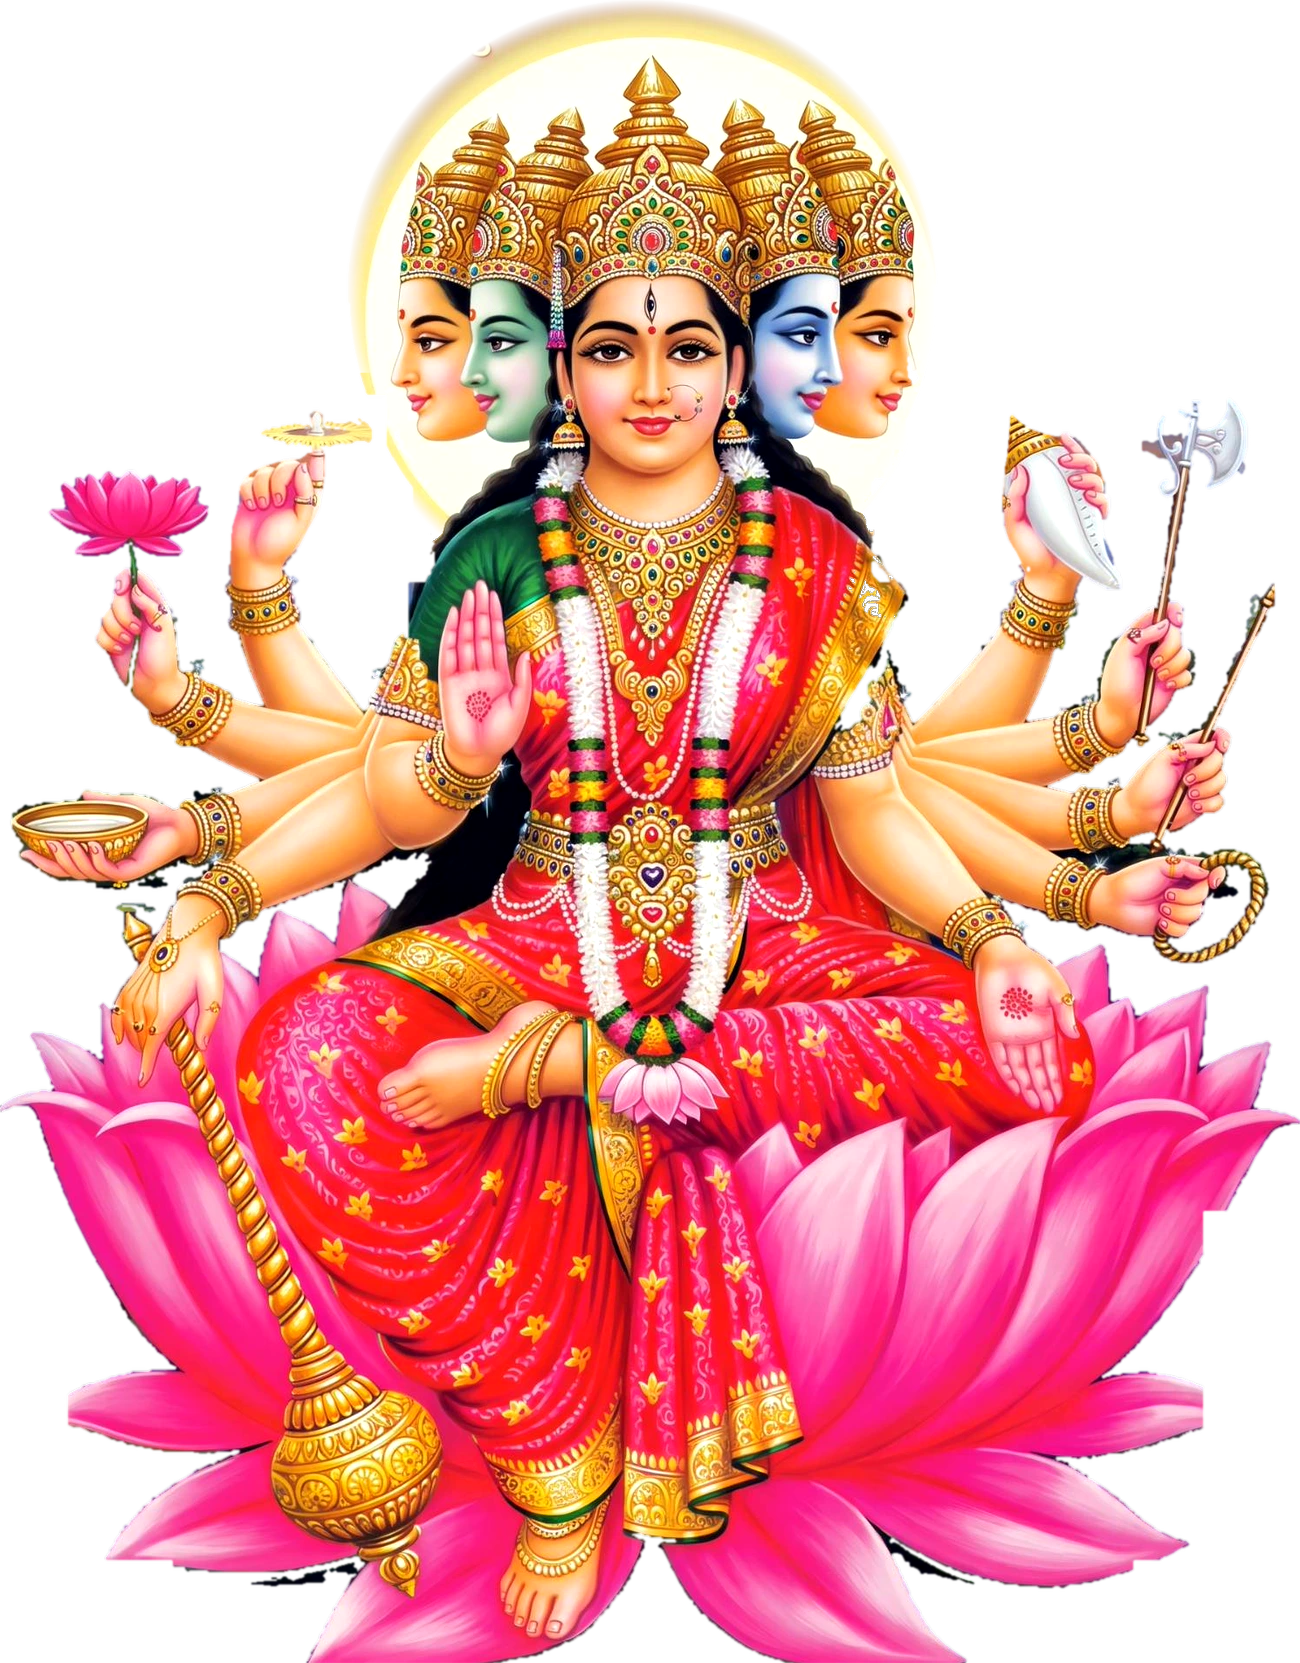
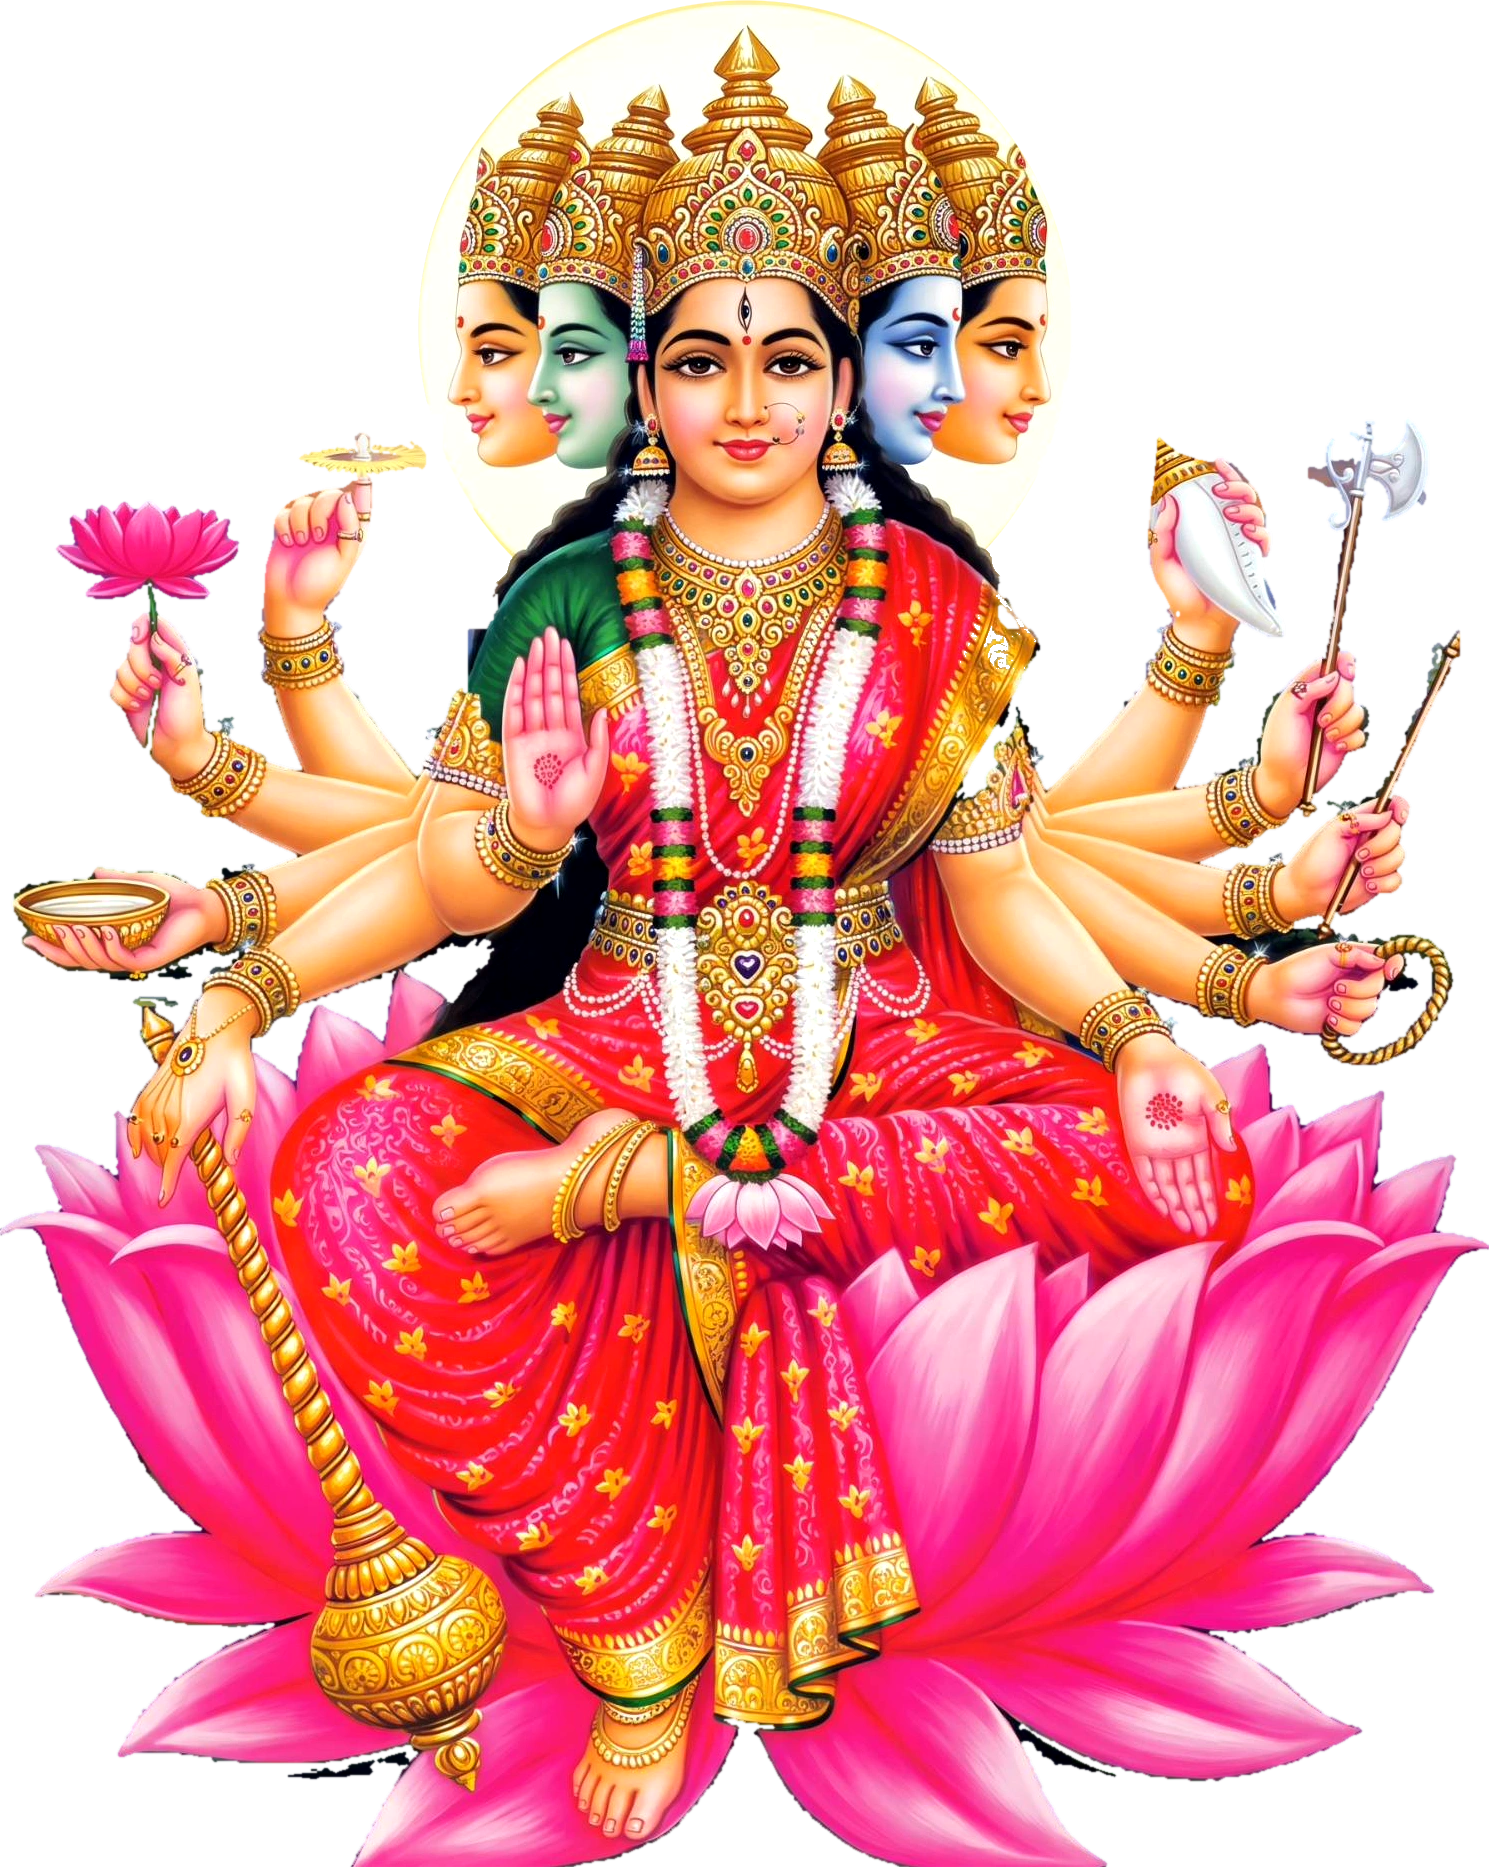
Hero: crisp halo disc and sharper edges
The halo is now a clean, complete circle with a crisp edge (fitted to its real
centre and radius), the nose profile hole is fixed, the lotus petals on the right
are no longer sliced flat, edges are sharper (tighter anti-aliasing, full
resolution export).

diff --git a/src/components/home/SuryaMandalaHero.tsx b/src/components/home/SuryaMandalaHero.tsx
@@ -393,7 +393,7 @@ export function SuryaMandalaHero({ onFailed }: { onFailed?: () => void }) {
     // the landscape and the mantra ring removed so only the Devi remains, on
     // a real alpha channel. The Devi's silhouette is the same shape the
     // earlier cut-out used, so she sits in the middle of the mandala as before.
-    const figureImageAspect = 1489 / 1905
+    const figureImageAspect = 1489 / 1867
     const figureHeight = coreRadius * 4.2
     // To make her stand out from the bright glow behind, the picture is drawn
     // onto a canvas with a soft dark shadow around her silhouette. The canvas
